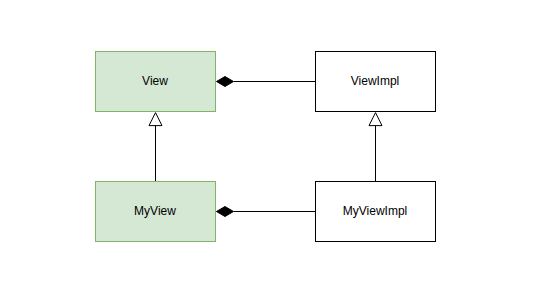
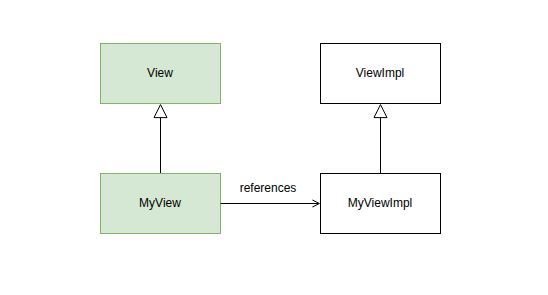
Update wiki home

diff --git a/wiki/View-(kr).md b/wiki/View-(kr).md
@@ -53,7 +53,7 @@ View view = View::DownCast(impl.Self());
 
 ## View Extensibility
 
-이 섹션은 `View`에 유저 데이터나 특정 기능을 붙이는 방법, 그리고 `View`를 상속하여 신규 클래스는 정의하는 방법에 대해 설명하고, 사용자가 목적에 따라 적절한 방법을 선택하여 `View`를 확장할 수 있도록 가이드합니다.
+이 섹션은 `View`에 유저 데이터나 특정 기능을 붙이는 방법, 그리고 `View`를 상속하여 신규 클래스를 정의하는 방법에 대해 설명하고, 사용자가 목적에 따라 적절한 방법을 선택하여 `View`를 확장할 수 있도록 가이드합니다.
 
 <br/>
 
@@ -257,7 +257,7 @@ DALI_TYPE_REGISTRATION_END()
 
 ### 5. Inheriting from Classes derived from View
 
-앱이 `ImageView`나 `Label` 등을 상속받으려면 약간의 트릭이 필요합니다. 핸들과 impl 클래스가 모두 제공되는 것은 `View` 뿐이기 때문에, 그 외 ` Label` 과 같은 클래스를 상속하려면 data attachment를 이용한 제한적인 방법을 적용해 볼 수 있습니다. 자세한 방법 및 주의 사항은 [#327](https://github.sec.samsung.net/NUI/dali-ui/pull/327)을 참고하세요.
+앱이 `ImageView`나 `Label` 등을 상속 받으려면 약간의 트릭이 필요합니다. 핸들과 impl 클래스가 모두 제공되는 것은 `View` 뿐이기 때문에, 그 외 ` Label` 과 같은 클래스를 상속하려면 data attachment를 이용한 제한적인 방법을 적용해 볼 수 있습니다. 자세한 방법 및 주의 사항은 [#327](https://github.sec.samsung.net/NUI/dali-ui/pull/327)을 참고하세요.
 
 <br/>
 
